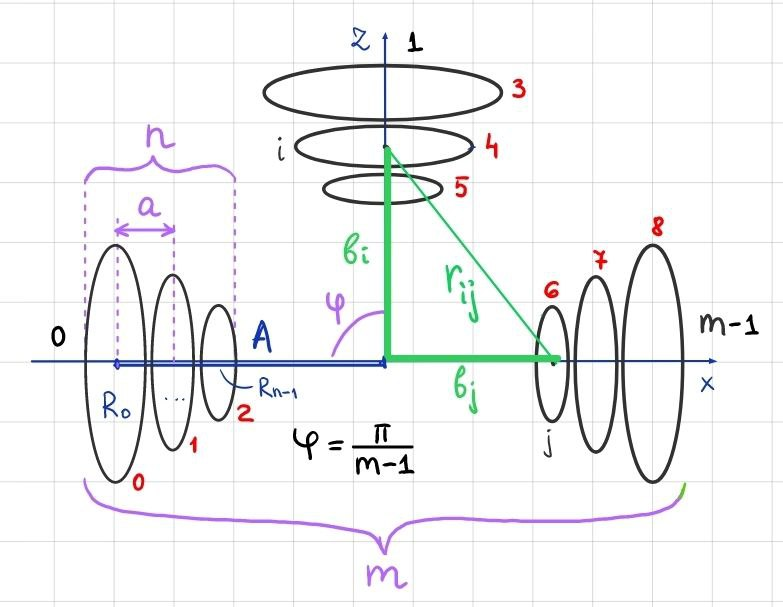
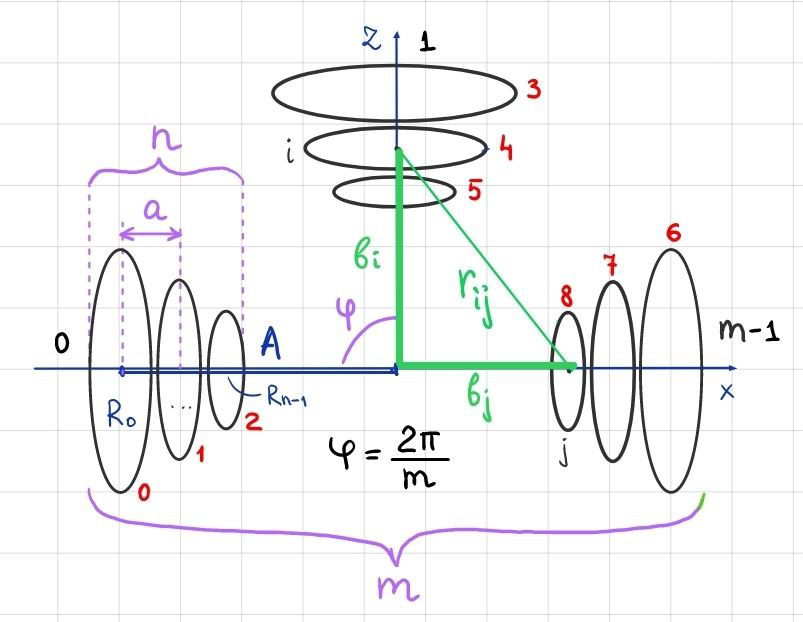
исправление

diff --git a/auxiliary functions.py b/auxiliary functions.py
@@ -1,0 +1,77 @@
+import numpy as np
+import matplotlib.pyplot as plt
+
+mu0 = 1
+
+#Функция для дискретизация контура с током
+def loop_segments(R=1.0, N=512):
+    phi = np.linspace(0, 2*np.pi, N, endpoint=False) #Массив углов ϕ создается от 0 до 2π, endpoint=False исключает последнюю точку 2π
+    dphi = 2*np.pi / N #Рассчитывается угловая длина ∆ϕ = 2π/N, необходимая для преобразования производной в конечный вектор сегмента
+    x = R * np.cos(phi)
+    y = R * np.sin(phi)
+    z = np.zeros_like(x)
+    rp = np.stack((x, y, z), axis=1) #Создается массив центров сегментов rj′ = (xj, yj, zj) путем объединения x, y, z координат вдоль новой оси (axis=1).
+    dl = np.stack((-R * np.sin(phi), R * np.cos(phi), np.zeros_like(phi)), axis=1) * dphi #Вычисляется вектор длины сегмента
+    return rp, dl
+
+
+
+#Б-С-Л для кольца с током
+
+def bio_savar_loop_point(r_obs, R=1.0, I=1.0, N=1024):
+    rp, dl = loop_segments(R, N)
+    Rvecs = r_obs.reshape(1,3) - rp # массив векторов, направленных от каждого сегмента кольца к точке наблюдения
+    norms = np.linalg.norm(Rvecs, axis=1)
+    norms = np.where(norms < 1e-12, 1e-12, norms) #избегание деления на 0
+    B = (mu0 / (4*np.pi)) * I * np.sum(np.cross(dl, Rvecs) / (norms**3).reshape(-1,1), axis=0)
+    return B
+
+
+
+#Построение силовых линий
+
+def xz_streamplot(R=1.0, I=1.0, x_extent=2.0, z_extent=2.0, Nx=200, Nz=200, Nseg=1024):
+    xs = np.linspace(-x_extent, x_extent, Nx)
+    zs = np.linspace(-z_extent, z_extent, Nz)
+    X, Z = np.meshgrid(xs, zs, indexing='ij')
+    Bx = np.zeros_like(X)
+    Bz = np.zeros_like(Z)
+    rp, dl = loop_segments(R, Nseg)
+    for i in range(Nx):
+        for k in range(Nz):
+            r_obs = np.array([xs[i], 0.0, zs[k]])
+            B = bio_savar_loop_point(r_obs, R=R, I=I, N=Nseg)
+            Bx[k,i] = B[0]
+            Bz[k,i] = B[2]
+    speed = np.sqrt(Bx**2 + Bz**2)
+    plt.figure(figsize=(6,6))
+    strm = plt.streamplot(xs, zs, Bx, Bz, color=speed, cmap='plasma', density=1.5, linewidth=1) #Построение силовых линий магнитного поля
+    plt.colorbar(label='|B| (T)') # Добавление цветовой шкалы для величины магнитного поля
+    plt.xlabel('x')
+    plt.ylabel('z')
+    plt.title('Линии магнитного поля в сечении y=0 (Bx, Bz)')
+    plt.scatter([R, -R], [0, 0], color='black', s=10) # Отображение положения витка тока
+    plt.axvline(0, color='k', linewidth=0.5) # Добавление оси симметрии
+    plt.show()
+
+#Рассчет поля соленоида
+def B_solenoid(r_obs, R=1.0, I=1.0, n=10, L=1.0, Nphi=1024):
+    r_obs = np.asarray(r_obs, dtype=float).reshape(3)
+    Nturns = L*n
+    x, y, z_obs = r_obs
+    if Nturns <= 0:
+        return np.zeros(3)
+    if L <= 0:
+        raise ValueError("length must be positive")
+
+    z_positions = np.linspace(-L / 2.0, L / 2.0, int(Nturns))
+    B = np.zeros(3, dtype=float)
+
+    for zp in z_positions:
+
+        r_rel = np.array([x, y, z_obs - zp], dtype=float)
+        B_ring = bio_savar_loop_point(r_rel, R=R, I=I, N=Nphi)
+        B += B_ring
+
+
+    return B

diff --git a/inductance.py b/inductance.py
@@ -3,28 +3,7 @@ import scipy
 from math import *
 from scipy import special
 
-mu = 1
-
-'''
-def function(theta, R1, R2, b1, b2, alpha):
-
-    z2 = b1 - b2 * cos(alpha)
-    x2 = b2 * sin(alpha)
-    x = -x2 - R2 * cos(alpha) * sin(theta)
-    y = R2 * cos(theta)
-    z = z2 + R2 * sin(alpha) * cos(theta)
-    rho = sqrt(x ** 2 + y ** 2)
-    k = sqrt((4*R1*rho)/((R1+rho)**2 + z**2))
-
-    if alpha == 0 & b1 == b2:
-        return 0
-    return ((2*mu*sqrt(R1))/(k*sqrt(rho)*4*pi)) * ((1-k**2/2)*special.ellipk(k) - special.ellipe(k)) * \
-           ((R2*cos(alpha) + x2*sin(theta))/(sqrt((x2+R2*cos(alpha)*sin(theta))**2 + (R2*cos(theta))**2))) * R2
-
-'''
-
 def function(theta, R1, R2, b1, b2, alpha, mu, eps=1e-12):
-
     # геометрия точки на контуре R2
     z2 = b1 - b2 * cos(alpha)
     x2 = b2 * sin(alpha)
@@ -38,24 +17,23 @@ def function(theta, R1, R2, b1, b2, alpha, mu, eps=1e-12):
     if rho < eps:
         rho = eps
 
-    k = sqrt((4*R1*rho)/((R1+rho)**2 + z**2))
-
+    k = sqrt((4 * R1 * rho) / ((R1 + rho) ** 2 + z ** 2))
 
     if isclose(alpha, 0.0, abs_tol=eps) and isclose(b1, b2, abs_tol=eps):
         return 0.0
-
 
     if k < eps:
         return 0.0
 
     numerator = (R2 * cos(alpha) + x2 * sin(theta))
-    denominator = sqrt((x2 + R2 * cos(alpha) * sin(theta))**2 + (R2 * cos(theta))**2)
+    denominator = sqrt((x2 + R2 * cos(alpha) * sin(theta)) ** 2 + (R2 * cos(theta)) ** 2)
     if denominator < eps:
         coefficient = 0.0
     else:
         coefficient = numerator / denominator
 
-    return ((2.0 * mu * sqrt(R1)) / (k * sqrt(rho) * 4.0 * pi))*( (1.0 - k*k / 2.0) * special.ellipk(k * k) - special.ellipe(k * k))* coefficient* R2
+    return ((2.0 * mu * sqrt(R1)) / (k * sqrt(rho) * 4.0 * pi)) * (
+                (1.0 - k * k / 2.0) * special.ellipk(k * k) - special.ellipe(k * k)) * coefficient * R2
 
 
 
@@ -63,35 +41,19 @@ def function(theta, R1, R2, b1, b2, alpha, mu, eps=1e-12):
 def inductance(R1, R2, b1, b2, alpha):
     return scipy.integrate.quad(function, 0, 2*pi, args = (R1, R2, b1, b2, alpha))[0]
 
-'''
-def inductance_matrix(n, m, R, A, a):
-
-    fi = pi/(m-1)
-    L = np.zeros((n*m, n*m))
-
-    for i in range(0, n*m):
-        for j in range(0, n*m):
-            M_i = i // n    # номер стопки
-            N_i = i % n     # номер кольца в стопке
-            M_j = j // n
-            N_j = j % n
-            L[i,j] = inductance(R[N_i], R[N_j], A - a*N_i, A - a*N_j, fi * abs(M_i - M_j))
-    return L
-'''
 
 def inductance_matrix(n, m, R, A, a):
 
     fi = 2*pi/m
     L = np.zeros((n*m, n*m))
 
-
-    for i in range(n*m):
-        M_i = i // n    # номер стопки
-        N_i = i % n     # номер кольца в стопке
+    for i in range(n * m):
+        M_i = i // n  # номер стопки
+        N_i = i % n  # номер кольца в стопке
         R_i = R[N_i]
         b_i = A - a * N_i
 
-        for j in range(i, n*m):  # только j >= i
+        for j in range(i, n * m):  # только j >= i
             M_j = j // n
             N_j = j % n
             R_j = R[N_j]
@@ -100,8 +62,11 @@ def inductance_matrix(n, m, R, A, a):
             alpha = fi * abs(M_i - M_j)
 
             L[i, j] = inductance(R_i, R_j, b_i, b_j, alpha)
-            L[j, i] =  L[i, j]
+            L[j, i] = L[i, j]
 
     return L
+
+
+
 
 
